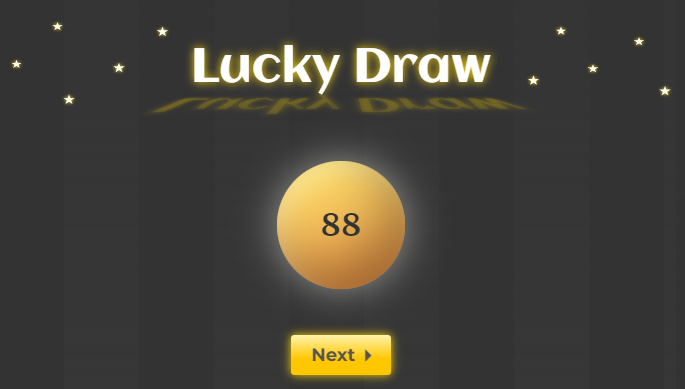
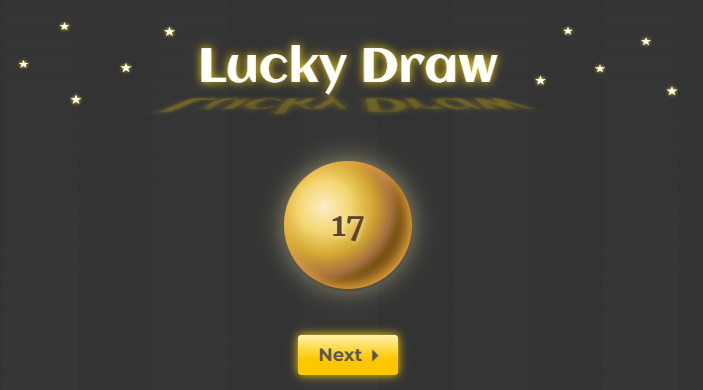
initialcommit

diff --git a/script.js b/script.js
@@ -29,6 +29,7 @@ class MyApp extends React.Component {
         this.addName = this.addName.bind(this);
         this.focusNewName = this.focusNewName.bind(this);
         this.delName = this.delName.bind(this);
+        this.resetNamelist = this.resetNamelist.bind(this);
     }
 
     componentDidMount() {
@@ -213,7 +214,11 @@ class MyApp extends React.Component {
         document.getElementById("new-name").focus();
 
     }
-
+    resetNamelist(){
+        this.setState({
+            nameList:[]
+        })
+    }
 
 
     render() {
@@ -243,6 +248,7 @@ class MyApp extends React.Component {
                                 pair={this.state.pair}
                                 delName={this.delName}
                                 toPageOneName={this.toPageOneName}
+                                resetNamelist={this.resetNamelist}
                             />
                         </div> :
                         (this.state.mode == "number") ?
@@ -372,10 +378,12 @@ class RandomNames extends React.Component {
                                 add
                             </span>
                         </button>
-                        {(this.props.nameList.length < 6) ? [...Array(6 - this.props.nameList.length)].map((e, i) =>
+                        {(this.props.nameList.length < 5) ? [...Array(5 - this.props.nameList.length)].map((e, i) =>
                             <div key={i} className="name-tag" />
                         ) : null}
-
+                <button className="reset-btn" onClick={this.props.resetNamelist}>
+                    Reset Name List
+                </button>
                     </div>
                 </div>
                 <div className="name-box-shadow box-shadow"></div>

diff --git a/style.css b/style.css
@@ -479,7 +479,7 @@ h4 {
 
 .add-btn {
     border: none;
-    width: 355px;
+    width: 357px;
 }
 
 .addname-btn {
@@ -633,7 +633,10 @@ h4 {
     font-size: 24px;
     border: none;
 }
+.namelist .reset-btn{
+    width: 357px;
 
+}
 .reset-btn:hover {
     background: #bb3a3a;
     color: #FFFFFF;
@@ -677,6 +680,7 @@ h4 {
 
 .luckyball {
     position: absolute;
+    opacity: 1;
     margin: 0;
     animation-name: ballanim;
     animation-duration: 1.5s;
@@ -684,17 +688,20 @@ h4 {
     font-style: normal;
     font-weight: 700;
     font-size: 64px;
-    color: #333333;
+    color: 
+    #5F442B;
+
+text-shadow: 2px 1px 10px rgba(255, 255, 255, 0.5);
     line-height: 80px;
     height: 80px;
     padding-top: 88px;
     padding-bottom: 88px;
     border-radius: 50%;
     width: 257px;
-    background: linear-gradient(159.38deg, #FFDE6A 14.68%, #DF8E43 86.38%);
-    box-shadow: inset -40px -40px 90px rgba(0, 0, 0, 0.25), inset 17px 22px 40px rgba(255, 255, 255, 0.25);
-
+   background: radial-gradient(64.26% 64.26% at 31.52% 35.74%, #FFECCA 0%, #F4D770 31.77%, #D1A532 59.9%, #A57040 81.25%, #744d12 92.71%) /* warning: gradient uses a rotation that is not supported by CSS and may not behave as expected */;
+box-shadow: 0px 4px 4px rgba(0, 0, 0, 0.2), inset -5px -5px 30px #FFB648;
 }
+
 .luckyball::after, .luckycard-div::after {
     content: " ";
     margin: 0;
@@ -710,7 +717,6 @@ h4 {
     left: 0;
     width: 100%;
     height: 100%;
-    background: rgba(255, 243, 132, 0.5);
 }
 .luckyball::after {
     border-radius: 50%;
